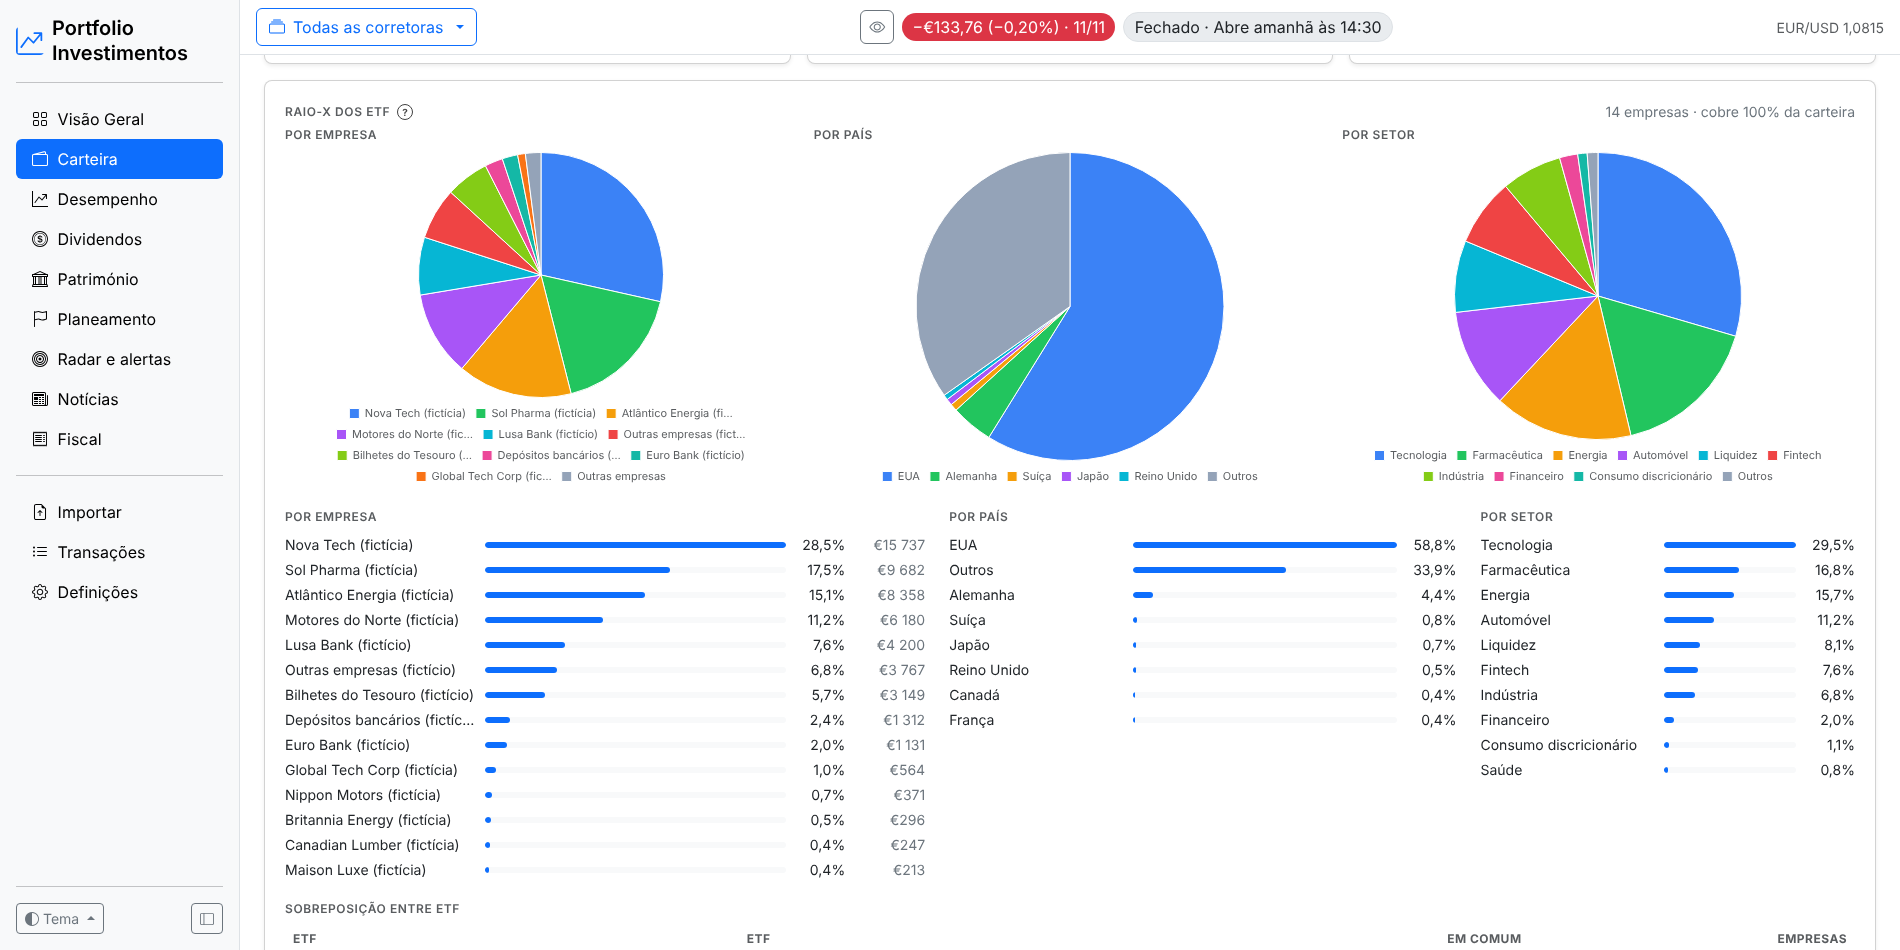
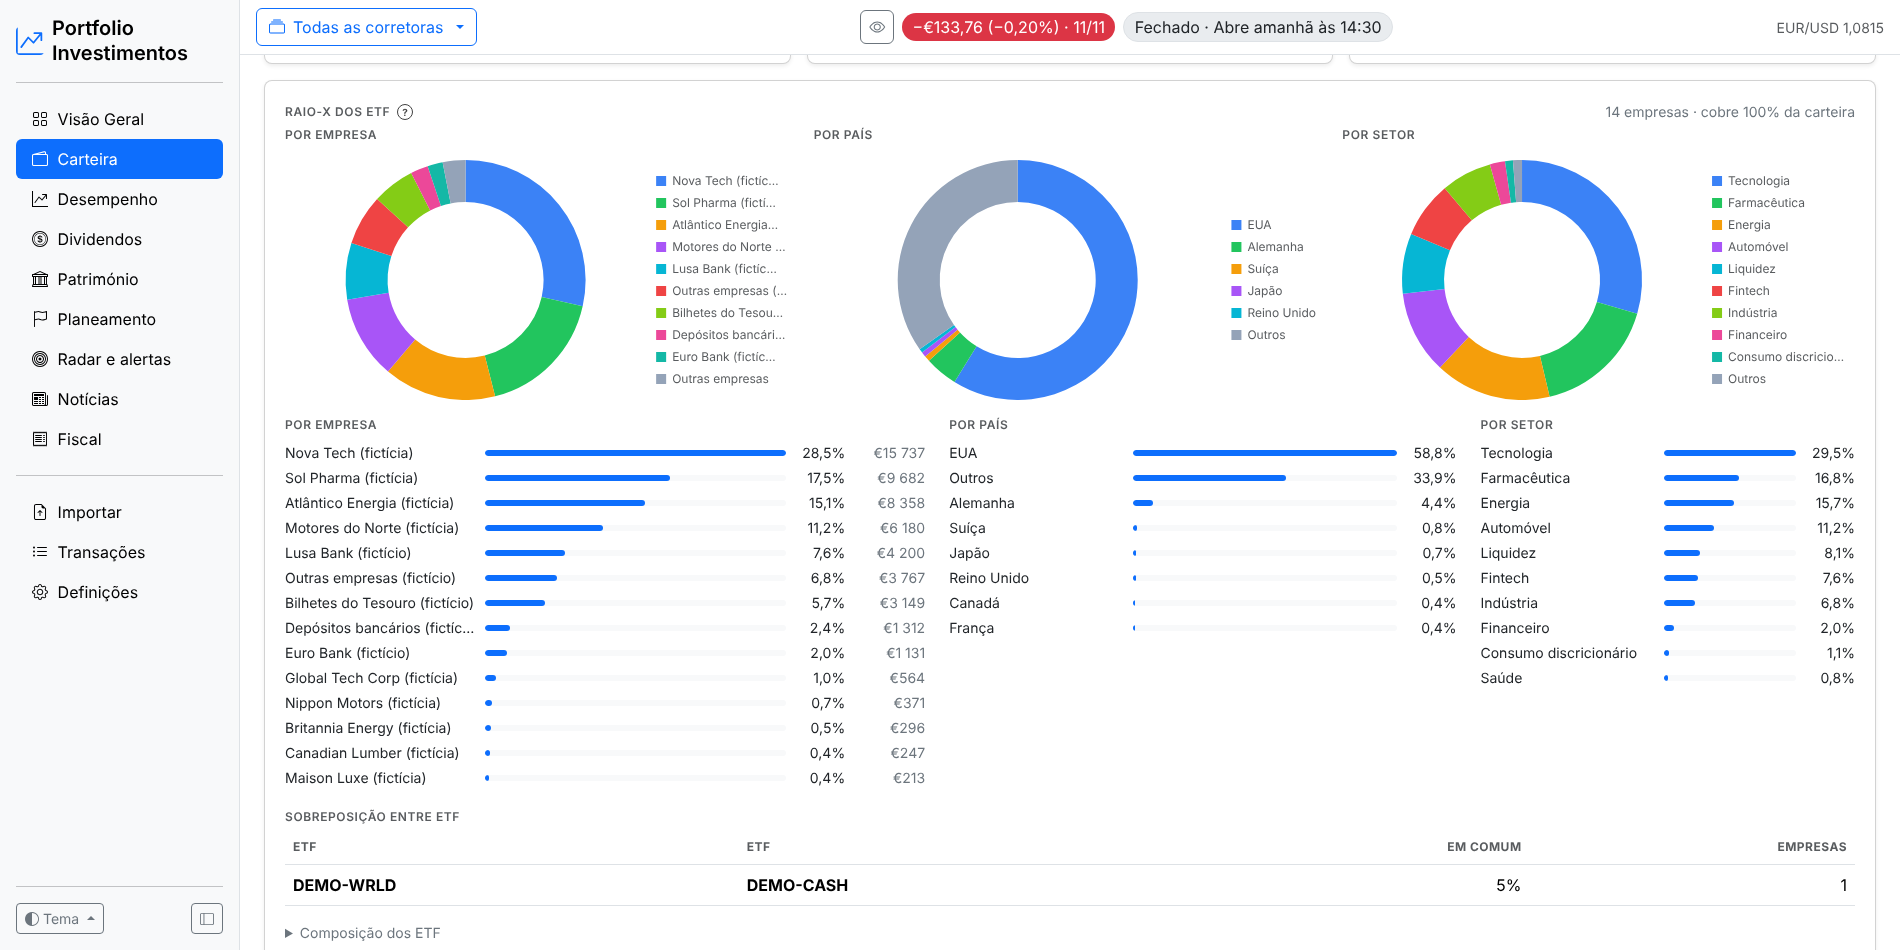
Raio-X dos ETF: gráficos no estilo da «Alocação»
Os três gráficos do Raio-X (empresa, país e setor) passam a ter o estilo
dos gráficos «Alocação · Por ativo»: anel (65%), legenda à direita, sem
contorno, 240 px de altura e colunas col-lg-4. Por empresa mostra as 9
maiores e «Outras empresas» (10 entradas, como os outros), para a legenda
caber numa coluna. Captura do Raio-X atualizada.

Claude-Session: https://claude.ai/code/session_01AhMv5rzh4esVFWwNf2sje8

diff --git a/portfolio_investimentos/templates/pages/carteira.html b/portfolio_investimentos/templates/pages/carteira.html
@@ -190,7 +190,7 @@
     {% if xray.missing %}<div class="alert alert-info small py-2 mb-2">Falta a composição de {{ xray.missing|join(', ') }}: carrega-a em «Composição dos ETF», em baixo. Até lá, {{ 'esse ETF conta' if xray.missing|length == 1 else 'esses ETF contam' }} como «ETF sem composição».</div>{% endif %}
     <div class="row g-3 mb-3" id="xrayPies">
       {% for key, label in (("companies", "Por empresa"), ("countries", "Por país"), ("sectors", "Por setor")) %}
-      <div class="col-md-4"><div class="pm-label mb-2">{{ label }}</div><div style="height: 340px"><canvas id="xray-pie-{{ key }}" aria-label="Exposição {{ label|lower }}"></canvas></div></div>
+      <div class="col-lg-4"><div class="pm-label mb-3">{{ label }}</div><div style="height: 240px"><canvas id="xray-pie-{{ key }}" aria-label="Exposição {{ label|lower }}"></canvas></div></div>
       {% endfor %}
     </div>
     <div class="row g-4">
@@ -486,12 +486,13 @@
       const pieColors = ["#3b82f6", "#22c55e", "#f59e0b", "#a855f7", "#06b6d4", "#ef4444", "#84cc16", "#ec4899", "#14b8a6", "#f97316"];
       const rest = (n) => n === "Outros" || n === "Outras empresas";
       const colors = rows.map((r, i) => rest(r[0]) ? "#94a3b8" : pieColors[i % pieColors.length]);
-      const short = (n) => n.length > 22 ? n.slice(0, 21) + "…" : n;  // a legenda não corta; o nome inteiro fica na dica
+      const short = (n) => n.length > 18 ? n.slice(0, 17) + "…" : n;  // a legenda não corta; o nome inteiro fica na dica
+      // o mesmo estilo dos gráficos «Alocação» (anel, legenda à direita, sem contorno)
       pm.chart("xray-pie-" + key, {
-        type: "pie",
-        data: { labels: rows.map((r) => short(r[0])), datasets: [{ data: rows.map((r) => r[1]), backgroundColor: colors, borderWidth: 1, borderColor: pm.css("--bs-body-bg") || "#fff" }] },
-        options: { maintainAspectRatio: false, plugins: {
-          legend: { position: "bottom", labels: { boxWidth: 10, font: { size: 11 } } },
+        type: "doughnut",
+        data: { labels: rows.map((r) => short(r[0])), datasets: [{ data: rows.map((r) => r[1]), backgroundColor: colors, borderWidth: 0 }] },
+        options: { maintainAspectRatio: false, cutout: "65%", plugins: {
+          legend: { position: "right" },
           tooltip: { callbacks: { label: (it) => {
             const total = it.dataset.data.reduce((a, b) => a + b, 0);
             return `${rows[it.dataIndex][0]}: ${pm.money(it.parsed)} (${pm.pct(it.parsed / total, 1, false)})`;

diff --git a/tests/test_app.py b/tests/test_app.py
@@ -2927,13 +2927,13 @@ def test_etf_xray_holdings_exposure_and_overlap(app, client):
         ov = x["overlap"][0]
         assert {ov["a"], ov["b"]} == {"DEMO-WRLD", "DEMO-CASH"} and ov["share"] == pytest.approx(0.4 + 0.2)
         assert EtfHolding.query.filter_by(etf="DEMO-WRLD").count() == 3
-        # gráficos circulares: no máximo 10 (+ «Outras empresas») e 9 (+ «Outros») fatias, que somam tudo
+        # gráficos circulares: no máximo 9 fatias + «Outras empresas»/«Outros», que somam tudo
         pies = x["pies"]
         assert set(pies) == {"companies", "countries", "sectors"}
         assert sum(v for _, v in pies["companies"]) == pytest.approx(x["companies_total"], abs=0.05)
         assert sum(v for _, v in pies["countries"]) == pytest.approx(x["total"], abs=0.05)
         assert sum(v for _, v in pies["sectors"]) == pytest.approx(x["total"], abs=0.05)
-        assert len(pies["companies"]) <= 11 and len(pies["countries"]) <= 10 and len(pies["sectors"]) <= 10
+        assert len(pies["companies"]) <= 10 and len(pies["countries"]) <= 10 and len(pies["sectors"]) <= 10
         assert [n for n, _ in pies["countries"]].count("Outros") <= 1
     html = client.get("/carteira").get_data(as_text=True)
     assert "Falta a composição" not in html and "Sobreposição entre ETF" in html

diff --git a/portfolio_investimentos/services/xray.py b/portfolio_investimentos/services/xray.py
@@ -328,7 +328,7 @@ def xray(p, top=TOP):
                 overlap.append({"a": a, "b": b, "share": share, "common": len(common)})
     overlap.sort(key=lambda x: -x["share"])
     companies_total = sum(c["value"] for c in comps)
-    pies = {"companies": _pie([(c["name"], c["value"]) for c in comps], 10, "Outras empresas", companies_total),
+    pies = {"companies": _pie([(c["name"], c["value"]) for c in comps], 9, "Outras empresas", companies_total),
             "countries": _pie(sorted(by_country.items(), key=lambda kv: -kv[1]), 9, "Outros"),
             "sectors": _pie(sorted(by_sector.items(), key=lambda kv: -kv[1]), 9, "Outros")}
     return {"companies": top_rows, "countries": ranked(by_country), "sectors": ranked(by_sector),

diff --git a/CHANGELOG.md b/CHANGELOG.md
@@ -5,7 +5,7 @@ O que mudou em cada commit, do mais recente para o mais antigo (gerado a partir 
 ## 2026-11-15
 
 - **Carteira: gráficos circulares no Raio-X dos ETF**  
-  Três gráficos circulares por cima das barras: a exposição real por empresa (as 10 maiores e «Outras empresas»), por país e por setor (os 9 maiores e «Outros»). A legenda encurta os nomes longos e a dica mostra o nome inteiro, o valor e a %. «Outros» fica sempre a cinzento. Captura do Raio-X atualizada.
+  Três gráficos por cima das barras, no mesmo estilo dos gráficos «Alocação» (anel, legenda à direita): a exposição real por empresa (as 9 maiores e «Outras empresas»), por país e por setor (os 9 maiores e «Outros»). A legenda encurta os nomes longos e a dica mostra o nome inteiro, o valor e a %. «Outros» fica sempre a cinzento. Captura do Raio-X atualizada.
 - **Raio-X: ficheiros de posições da Invesco**  
   A coluna do nome «Full name» (ficheiro «Implied constituents» da Invesco, ex.: FTSE All-World, FWIA) e a do ISIN «ISIN code» passam a ser reconhecidas; antes, o ficheiro era recusado com «não encontrei as colunas do nome e do peso». Sem coluna de país, o país vem do ISIN.
 - **Fiscal: «Vender e recomprar» num cartão próprio**  
